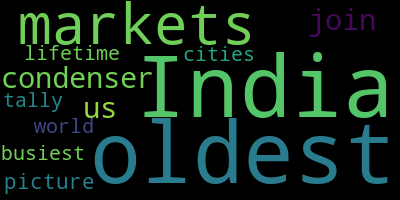
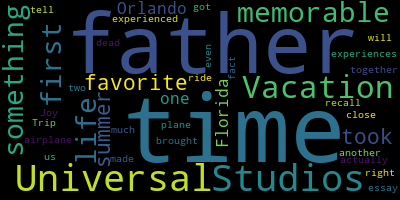
loading upload

diff --git a/upload.py b/upload.py
@@ -1,10 +1,306 @@
-from flask import Flask
+#from google.cloud.storage import storage
+from flask import Flask,render_template, Response, request, redirect, url_for, send_file
+from werkzeug import secure_filename
+from google.cloud import speech
+from google.cloud.speech import enums
+from google.cloud.speech import types
+import google.cloud.storage as storage
+import os
+from os import path
+from wordcloud import WordCloud
+import json
+import re
+import operator
+import re
+from watson_developer_cloud import NaturalLanguageUnderstandingV1
+from watson_developer_cloud.natural_language_understanding_v1 import Features, KeywordsOptions
+#test
+
 app = Flask(__name__)
+#from google.cloud import resumable_media
 
 
-@app.route('/')
+def findKeywords(filename):
+    file = open(filename, "r")
+    outputfile = open("jsonOutput.json", "w")
+    keywords = []
+
+    natural_language_understanding = NaturalLanguageUnderstandingV1(
+        version='2018-11-16',
+        iam_apikey='m620e2y3lML5qG_oRJy9JERrlR0-159j3vJVrtPJkhJg',
+        url='https://gateway-wdc.watsonplatform.net/natural-language-understanding/api'
+        )
+
+    try:
+        response = natural_language_understanding.analyze(
+        text = string,
+        features=Features(keywords=KeywordsOptions(sentiment=False,emotion=False))).get_result()
+    except:
+        return []
+    #print(json.dumps(response, indent=2))
+    file.close()
+    outputfile.write(json.dumps(response, indent=2))
+    outputfile.close()
+    with open("jsonOutput.json", "r") as read_file:
+        data = json.load(read_file)
+    keywordslist = data['keywords']
+    my_dict = {}
+    for i in range((len(keywordslist))):
+        x = keywordslist[i]
+        keywords.append(x['text'])
+        my_dict.update({x['text']:x['relevance']})
+    #for i in keywords:
+        #print(i)
+    return createRelavantKeywordsList(my_dict, keywords)
+#print(findKeywords("text.txt"))
+def converttexttoString(filename):
+    with open(filename) as f:
+        lines = f.readlines()
+    textstr = ''
+    for x in lines:
+        textstr+= x
+    #print(type(textstr))
+    return textstr
+#print(converttexttoString("text.txt"))
+def createDictionary (text, keywords):
+    my_dict = {}
+    #print(len(text))
+    for i in keywords:
+        #print(i)
+        #print(text.index(i))
+        my_dict.update({i : text.index(i)})
+    return my_dict
+def createRelavantKeywordsList(dict, keywordslist):
+    keywords =[]
+    threshold = 0.60
+    for i in range(len(keywordslist)):
+        #print(keywordslist[i])
+        #print(dict.get(keywordslist[i]))
+        if(dict.get(keywordslist[i]) > threshold):
+            keywords.append(keywordslist[i])
+    print(keywordslist)
+    print(keywords)
+    if(len(keywords)==0) and (len(keywordslist)>0):
+        keywords.append(keywordslist[0])
+        print("there are not keywords that fit the relevance parameter.")
+        print(keywords)
+    return keywords
+
+def sortByIndex(dict):
+    sorted_dict = sorted(dict.items(), key=operator.itemgetter(1))
+    return sorted_dict
+def makestringfromDictionary(sorteddictionary):
+    str = ''
+    for key in sorteddictionary:
+        str+=key[0] + ' '
+    return str
+
+def makeMainIdea(filename, outputfile):
+    keywordwatsonlist = findKeywords(filename)
+    textstring = converttexttoString(filename)
+    dictionary = createDictionary(textstring,keywordwatsonlist)
+    beautifulsorteddictionary = sortByIndex(dictionary)
+    finalstring = makestringfromDictionary(beautifulsorteddictionary)
+    text_file = open(outputfile, "w")
+    text_file.write(finalstring)
+def printMainIdea(filename):
+    keywordwatsonlist = findKeywords(filename)
+    textstring = converttexttoString(filename)
+    dictionary = createDictionary(textstring,keywordwatsonlist)
+    beautifulsorteddictionary = sortByIndex(dictionary)
+    finalstring = makestringfromDictionary(beautifulsorteddictionary)
+    print(finalstring)
+def findKeywordsofString(string):
+    outputfile = open("jsonOutput.json", "w")
+    keywords = []
+
+    natural_language_understanding = NaturalLanguageUnderstandingV1(
+        version='2018-11-16',
+        iam_apikey='m620e2y3lML5qG_oRJy9JERrlR0-159j3vJVrtPJkhJg',
+        url='https://gateway-wdc.watsonplatform.net/natural-language-understanding/api'
+        )
+    try:
+        response = natural_language_understanding.analyze(
+        text = string,
+        features=Features(keywords=KeywordsOptions(sentiment=False,emotion=False))).get_result()
+    except:
+        return []
+
+
+    #print(json.dumps(response, indent=2))
+    outputfile.write(json.dumps(response, indent=2))
+    outputfile.close()
+    with open("jsonOutput.json", "r") as read_file:
+        data = json.load(read_file)
+    keywordslist = data['keywords']
+    my_dict = {}
+    for i in range((len(keywordslist))):
+        x = keywordslist[i]
+        keywords.append(x['text'])
+        my_dict.update({x['text']:x['relevance']})
+    #for i in keywords:
+        #print(i)
+    return createRelavantKeywordsList(my_dict, keywords)
+def wsa(inputstring):
+    #print("WSA input" +inputstring)
+    keywordwatsonlist = findKeywordsofString(inputstring)
+    dictionary = createDictionary(inputstring,keywordwatsonlist)
+    beautifulsorteddictionary = sortByIndex(dictionary)
+    finalstring = makestringfromDictionary(beautifulsorteddictionary)
+    return finalstring
+
+def splitIntoParagraphs(text):
+    return re.split('[\n]', text)
+def splitParagraphIntoSentences(paragraph):
+    sentencelist = re.split('[?!.]', paragraph)
+    return sentencelist[:-1]
+def createSummaryMatrix(paragraphList):
+    #paragraphList = splitIntoParagraphs(text)
+    mat = []
+    for paragraph in paragraphList:
+        sentencesList = splitParagraphIntoSentences(paragraph)
+        #print()
+        #print("sentencesbefore")
+        #print()
+        #print(sentencesList)
+        wsaList = []
+        sentencesList = preprocess(sentencesList)
+        #print()
+        #print("sentencesafter")
+        #print()
+        #print(sentencesList)
+        for sentence in sentencesList:
+            wsaList.append(wsa(sentence))
+        #print(wsaList)
+        mat.append(wsaList)
+    return mat
+def runWSAOnParagraphs(paragraphList):
+    wsaList = []
+    for paragraph in paragraphList:
+        wsaList.append(wsa(paragraph))
+    return wsaList
+
+def preprocess(list):
+    for i in range (len(list)-1, -1, -1):
+        iList = list[i].split(' ')
+        if '' in iList:
+            iList.remove('')
+        if(len(iList) <3):
+            list.remove(list[i])
+    return list
+
+def outputOutline(wsaParagraphList, wsaSentenceMatrix, outputfile):
+    ascii_outer = 65
+    text_file = open(outputfile, "w")
+    text_file.write("Here is your autogenerated outline!")
+    text_file.write('')
+    text_file.write('')
+    for i in range(len(wsaParagraphList)):
+        paragraph = wsaParagraphList[i]
+        if(paragraph!=''):
+            plist = paragraph.split(' ')
+            if(len(plist) > 10):
+                paragraphstring = ''
+                for i in range(0,10):
+                    paragraphstring+=(' ' + plist[i])
+                text_file.write("\n" + chr(ascii_outer) + ". " + paragraphstring)
+            else:
+                text_file.write("\n" + chr(ascii_outer) + ". " + paragraph)
+            sentList = wsaSentenceMatrix[i]
+            ascii_inner = 97
+            for sentence in sentList:
+                if(sentence != ''):
+                    wordlist = sentence.split(' ')
+                    if(len(wordlist) > 10):
+                        sentencestring = ''
+                        for i in range(0,10):
+                            sentencestring+=(' ' + wordlist[i])
+                        text_file.write("\n \t " + chr(ascii_inner)+ ". " + sentencestring)
+                    else:
+                        text_file.write("\n \t " + chr(ascii_inner)+ ". " + sentence)
+                else:
+                    ascii_inner-=1
+                ascii_inner+=1
+        else:
+            ascii_outer-=1
+        ascii_outer+=1
+def createNotes(inputFile, outputFile):
+    paragraphlist = splitIntoParagraphs(converttexttoString(inputFile))
+    newparagraphlist = preprocess(paragraphlist)
+    wsaSentenceMatrix = createSummaryMatrix(newparagraphlist)
+    #print(wsaSentenceMatrix)
+    newparagraphlist = runWSAOnParagraphs(newparagraphlist)
+    outputOutline(newparagraphlist,wsaSentenceMatrix, outputFile)
+
+
+@app.route("/")
 def hello():
-    return "Hello World!"
+    return render_template('wordcloud.html')
 
-if __name__ == '__main__':
+@app.route('/uploaderlocal', methods=['POST'])
+def upload_file():
+   f = request.files['gcloudfile']
+
+
+  # print(f.filename)
+   #print(secure_filename(f.filename))
+   f.save(f.filename)
+   fString = str(f)
+   fString = fString.split("'")
+   storage_client = storage.Client.from_service_account_json(
+        'A2N-Official-bd3ee1c6cc61.json')
+   bucket = storage_client.get_bucket('a2n_audio')
+   blob = bucket.blob('input')
+   blob.upload_from_filename(fString[1])
+
+   ##### Converting Speech to text ##########
+   client = speech.SpeechClient()
+   text_file = open("wordcloud.txt", "w")
+
+   audio = types.RecognitionAudio(uri='gs://a2n_audio/input')
+   config = types.RecognitionConfig(
+       encoding=enums.RecognitionConfig.AudioEncoding.FLAC,
+       sample_rate_hertz=44100,
+       language_code='en-US',
+       enable_automatic_punctuation=True)
+
+   operation = client.long_running_recognize(config, audio)
+
+   print('Waiting for operation to complete...')
+   response = operation.result(timeout=9000)
+
+   # Each result is for a consecutive portion of the audio. Iterate through
+   # them to get the transcripts for the entire audio file.
+   for result in response.results:
+       # The first alternative is the most likely one for this portion.
+       text_file.write(u'{}'.format(result.alternatives[0].transcript))
+
+       text_file.write("\n")
+
+       #text_file.write('Confidence: {}'.format(result.alternatives[0].confidence))
+
+
+   text_file.close()
+
+   print('starting wordcloud')
+
+   d = path.dirname(__file__) if "__file__" in locals() else os.getcwd()
+
+   # Read the whole text.
+   text = open(path.join(d, 'wordcloud.txt')).read()
+
+   # Generate a word cloud image
+   wordcloud = WordCloud().generate(text)
+   print('wordcloud generated')
+   image = wordcloud.to_image()
+
+   #image.show()
+   image.save('/Users/20arjuna/Desktop/A2N/cloud.png', 'PNG')
+
+   ##### Notes ########
+   #wordcloud.txt is the inputfile for watson that has the output of speechtotext
+   createNotes('wordcloud.txt', 'notes.txt')
+   return send_file('cloud.png')
+
+if __name__ == "__main__":
     app.run()
